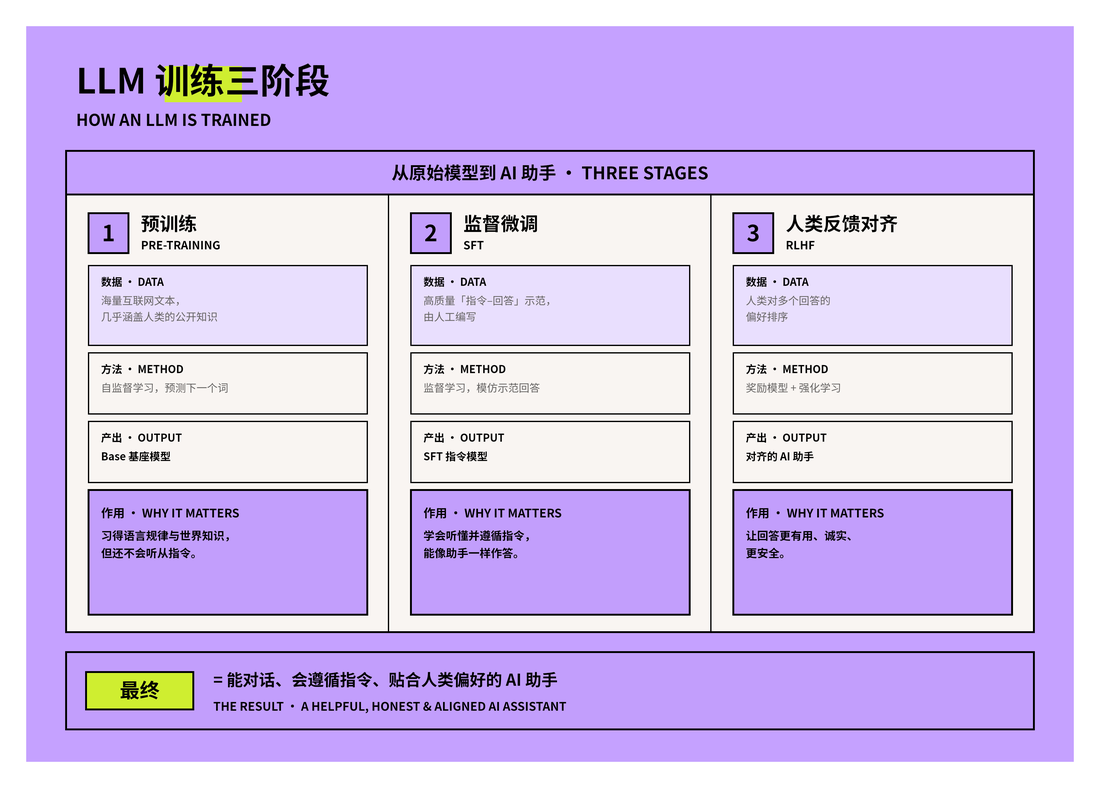
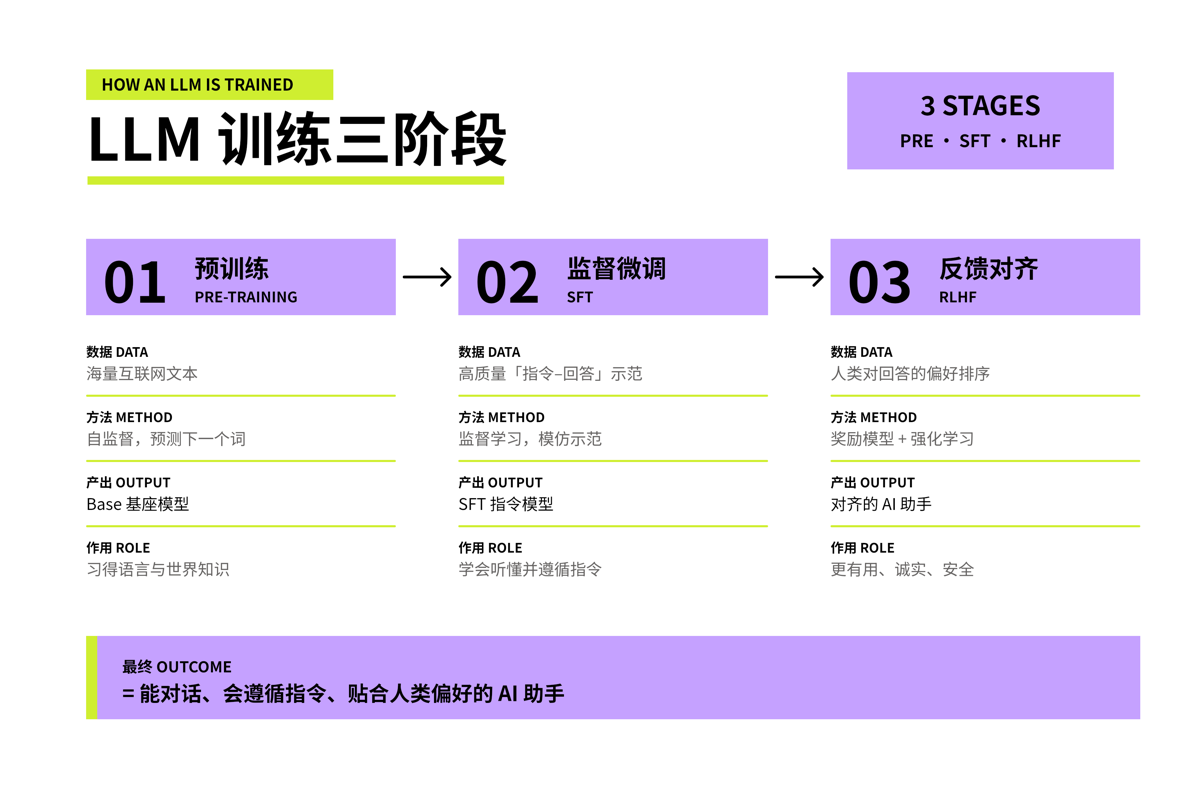
White Violet Marker official; remove Cobalt Glaze; Grove Block to Bold; Salmon Stamp to Restrained
- Violet Marker: adopt the white-background version (violet blocks + lime highlighter).
- Remove Cobalt Glaze.
- Move Grove Block to Bold, Salmon Stamp to Restrained.
- Regenerate catalogue + galleries (now 35 styles: Restrained 9, Balanced 15, Bold 11).

diff --git a/templates/violet-marker/design.md b/templates/violet-marker/design.md
@@ -3,54 +3,51 @@ version: 1.0
 name: Violet Marker
 renderer: feishu-svg-whiteboard
 description: >
-  A flat neobrutalist landing-page system — a bright lavender outer field framing a warm cream card with heavy black borders and hard squared corners. Panels abut flush like a web nav bar, a lime highlighter block sits behind one keyword, and a chunky purple button-tile carries the call to action. Type is heavy and mixed-case, ink-black on cream. NO shadows: depth is flat color blocks, thick black frames, panel role-swaps, and scale. Built for explainers, product/process walkthroughs, comparisons, and confident hero-and-steps system maps.
+  A friendly highlighter palette on a white page: a bright lavender-violet and an acid lime-green as
+  the two accents, with black type. Violet does the colour-blocks (header bands, chips); lime is the
+  single highlighter punch (a marker block behind a keyword, accent ticks, an underline). Black carries
+  the type; a warm grey softens body copy. Clean, modern, and airy: colour-blocks and whitespace do the
+  structure, not heavy frames. Flat color only, no gradients.
 
 # ── COLOR ────────────────────────────────────────────────────
 colors:
-  field:   "#C5A1FF"   # bright lavender-purple — the outer field / top band / banners
-  field-2: "#E9DFFE"   # pale lavender — recessed / quiet panels, secondary fills
-  cream:   "#F9F5F2"   # warm off-white — the main card, all body panels, large text on purple
-  ink:     "#000000"   # pure black — borders, headlines, ALL structural & label text
-  slate:   "#666463"   # warm grey — body / paragraph text on cream
-  lime:    "#CFEE30"   # acid-lime highlighter — the single punch: marker block behind a keyword, accents
-  grape:   "#C29EFC"   # mid purple — the CTA button-tile and key fills
-  # 2–3 accents per scene: cream + ink everywhere, then ONE of {lime, grape} as the punch. Dark text on light fills.
+  white:  "#FFFFFF"   # universal canvas: clean white page
+  violet: "#C5A1FF"   # bright lavender-violet: the main accent — header bands, chips, colour blocks (light enough for black text)
+  lime:   "#CFEE30"   # acid lime-green: the single highlighter PUNCH — a marker block behind a keyword, accent ticks, an underline
+  ink:    "#000000"   # black: all headlines, labels, and structural rules
+  slate:  "#666463"   # warm grey: body / paragraph text on white
+  # White page + two accents. Violet carries the colour-blocks; lime is the one highlighter punch.
+  # Black is the type. Keep it airy; one lime highlight per scene, not many.
 
-# ── TEXT COLOR (critical on a colored canvas) ────────────────
+# ── TEXT COLOR ───────────────────────────────────────────────
 text-rules:
-  on-cream:    "INK for headings/labels; SLATE for body. Always crisp."
-  on-purple:   "INK for any size — always reliable. CREAM only for LARGE bold display (≥ ~28px). Never small cream text on purple."
-  on-lime:     "INK text — always crisp (lime is the keyword highlight; keep the word black)."
-  on-grape:    "INK text — always crisp."
-
-# ── DEPTH ────────────────────────────────────────────────────
-# FLAT system — NO shadows of any kind (not blurred, not the offset-duplicate trick).
-# Depth = the heavy black frame, flat color blocks, panel role-swaps, and scale.
+  rule: "Text is black (or slate for body) on white and on violet. Lime is only a highlighter fill behind black text or a small mark, never text itself."
+  note: "Black text on violet reads fine on the live board. The image export renders text color unreliably, so judge color via --output_as raw or the live board, not the exported PNG."
 
 # ── STROKE & CORNERS ─────────────────────────────────────────
 stroke:
-  structural: "3px solid ink"   # the main card frame, nav bar, cards, button-tiles
-  rule:       "2px solid ink"   # internal dividers / nav underline
-  radius: 0                     # hard squared corners throughout — no rounding
+  structural: "minimal. Prefer violet colour-blocks and thin rules over heavy frames; no big outer frame"
+  rule:       "thin violet or lime rules for row dividers"
+  radius:     "low (rx 0 to 10); clean and modern"
 ---
 
 # Violet Marker — Feishu SVG Whiteboard Design System
 
-A flat neobrutalist landing page you can read at a glance: a bright lavender field, a heavy
-black-framed cream card sitting on it, a lime highlighter slashed behind one word, and a
-purple button-tile to act on. Confident, mixed-case, ink-on-cream — never heavy with chrome,
-never shadowed.
+A clean white page with bright violet colour-blocks and one acid-lime highlighter. Lead with black
+type, let the violet header bands and chips carry the structure, and spend the lime on a single
+highlighter move (a marker block behind a keyword, an underline, a few ticks). Keep the white open and
+airy, not boxed-in.
 
 ## Color
 
-The **lavender field** (`#C5A1FF`) is the outer canvas and the top band — the thing the cream
-card sits on. **Cream** (`#F9F5F2`) is the working surface: the main card, every body panel, and
-the only color allowed for *large* display text on purple. **Ink** (`#000000`) is the structural
-voice — every 3px border, every headline, every label. **Slate** (`#666463`) carries paragraph
-body on cream. The punch is a single accent per scene: **lime** (`#CFEE30`) as a highlighter block
-behind one keyword (the signature move), or **grape** (`#C29EFC`) as the CTA button-tile and key
-fills. Pale **field-2** (`#E9DFFE`) only recesses a quiet panel. Keep it to cream + ink plus ONE
-loud accent — don't run lime and grape loud in the same scene.
+- **White** (`#FFFFFF`): The universal canvas. Clean and open. The default background.
+- **Violet** (`#C5A1FF`): Bright lavender-violet. The main accent: stage header bands, chips, and colour blocks. Light enough that black text reads on it.
+- **Lime** (`#CFEE30`): Acid lime-green. The single highlighter punch: a marker block behind a keyword, an accent underline, small ticks. Very light, so use it as a fill behind black text, never as text.
+- **Ink** (`#000000`): Black. All headlines, labels, and the few structural rules.
+- **Slate** (`#666463`): Warm grey. Body and paragraph text on white, where pure black would be too heavy.
+
+Two accents on a clean white page: violet for the blocks, lime for one highlighter punch. Text is black
+or slate; the violet and lime are fills and marks, not text.
 
 ## Rules
 

diff --git a/README.md b/README.md
@@ -17,7 +17,7 @@ auto layout chart tool. Your agent composes the layout, and these templates give
 ## Gallery
 
 Every style renders the **same content**, the three stages of LLM training, so you can compare
-palettes directly. The 36 styles are grouped from **restrained** to **bold**. Click a name to
+palettes directly. The 35 styles are grouped from **restrained** to **bold**. Click a name to
 open its template.
 
 ### Restrained
@@ -25,22 +25,22 @@ open its template.
 <table>
 <tr>
 <td width="50%"><a href="templates/avocado-press/"><img src="assets/styles/avocado-press.png" alt="Avocado Press"/></a><br/><sub><a href="templates/avocado-press/"><b>Avocado Press</b></a></sub></td>
-<td width="50%"><a href="templates/cobalt-glaze/"><img src="assets/styles/cobalt-glaze.png" alt="Cobalt Glaze"/></a><br/><sub><a href="templates/cobalt-glaze/"><b>Cobalt Glaze</b></a></sub></td>
-</tr>
-<tr>
 <td width="50%"><a href="templates/grove/"><img src="assets/styles/grove.png" alt="Grove"/></a><br/><sub><a href="templates/grove/"><b>Grove</b></a></sub></td>
+</tr>
+<tr>
 <td width="50%"><a href="templates/jade-lens/"><img src="assets/styles/jade-lens.png" alt="Jade Lens"/></a><br/><sub><a href="templates/jade-lens/"><b>Jade Lens</b></a></sub></td>
-</tr>
-<tr>
 <td width="50%"><a href="templates/long-table/"><img src="assets/styles/long-table.png" alt="Long Table"/></a><br/><sub><a href="templates/long-table/"><b>Long Table</b></a></sub></td>
+</tr>
+<tr>
 <td width="50%"><a href="templates/macchiato/"><img src="assets/styles/macchiato.png" alt="Macchiato"/></a><br/><sub><a href="templates/macchiato/"><b>Macchiato</b></a></sub></td>
-</tr>
-<tr>
 <td width="50%"><a href="templates/monochrome/"><img src="assets/styles/monochrome.png" alt="Monochrome"/></a><br/><sub><a href="templates/monochrome/"><b>Monochrome</b></a></sub></td>
-<td width="50%"><a href="templates/papier-bleu/"><img src="assets/styles/papier-bleu.png" alt="Papier Bleu"/></a><br/><sub><a href="templates/papier-bleu/"><b>Papier Bleu</b></a></sub></td>
 </tr>
 <tr>
+<td width="50%"><a href="templates/papier-bleu/"><img src="assets/styles/papier-bleu.png" alt="Papier Bleu"/></a><br/><sub><a href="templates/papier-bleu/"><b>Papier Bleu</b></a></sub></td>
 <td width="50%"><a href="templates/reading-room/"><img src="assets/styles/reading-room.png" alt="Reading Room"/></a><br/><sub><a href="templates/reading-room/"><b>Reading Room</b></a></sub></td>
+</tr>
+<tr>
+<td width="50%"><a href="templates/salmon-stamp/"><img src="assets/styles/salmon-stamp.png" alt="Salmon Stamp"/></a><br/><sub><a href="templates/salmon-stamp/"><b>Salmon Stamp</b></a></sub></td>
 </tr>
 </table>
 
@@ -64,19 +64,15 @@ open its template.
 <td width="50%"><a href="templates/editorial-forest/"><img src="assets/styles/editorial-forest.png" alt="Editorial Forest"/></a><br/><sub><a href="templates/editorial-forest/"><b>Editorial Forest</b></a></sub></td>
 </tr>
 <tr>
-<td width="50%"><a href="templates/grove-block/"><img src="assets/styles/grove-block.png" alt="Grove Block"/></a><br/><sub><a href="templates/grove-block/"><b>Grove Block</b></a></sub></td>
 <td width="50%"><a href="templates/lime-slab/"><img src="assets/styles/lime-slab.png" alt="Lime Slab"/></a><br/><sub><a href="templates/lime-slab/"><b>Lime Slab</b></a></sub></td>
-</tr>
-<tr>
 <td width="50%"><a href="templates/linen-cut/"><img src="assets/styles/linen-cut.png" alt="Linen Cut"/></a><br/><sub><a href="templates/linen-cut/"><b>Linen Cut</b></a></sub></td>
+</tr>
+<tr>
 <td width="50%"><a href="templates/pin-and-paper/"><img src="assets/styles/pin-and-paper.png" alt="Pin & Paper"/></a><br/><sub><a href="templates/pin-and-paper/"><b>Pin & Paper</b></a></sub></td>
-</tr>
-<tr>
 <td width="50%"><a href="templates/raw-grid/"><img src="assets/styles/raw-grid.png" alt="Raw Grid"/></a><br/><sub><a href="templates/raw-grid/"><b>Raw Grid</b></a></sub></td>
-<td width="50%"><a href="templates/riptide-cobalt/"><img src="assets/styles/riptide-cobalt.png" alt="Riptide Cobalt"/></a><br/><sub><a href="templates/riptide-cobalt/"><b>Riptide Cobalt</b></a></sub></td>
 </tr>
 <tr>
-<td width="50%"><a href="templates/salmon-stamp/"><img src="assets/styles/salmon-stamp.png" alt="Salmon Stamp"/></a><br/><sub><a href="templates/salmon-stamp/"><b>Salmon Stamp</b></a></sub></td>
+<td width="50%"><a href="templates/riptide-cobalt/"><img src="assets/styles/riptide-cobalt.png" alt="Riptide Cobalt"/></a><br/><sub><a href="templates/riptide-cobalt/"><b>Riptide Cobalt</b></a></sub></td>
 <td width="50%"><a href="templates/soft-editorial/"><img src="assets/styles/soft-editorial.png" alt="Soft Editorial"/></a><br/><sub><a href="templates/soft-editorial/"><b>Soft Editorial</b></a></sub></td>
 </tr>
 <tr>
@@ -97,14 +93,17 @@ open its template.
 </tr>
 <tr>
 <td width="50%"><a href="templates/crayon-stack/"><img src="assets/styles/crayon-stack.png" alt="Crayon Stack"/></a><br/><sub><a href="templates/crayon-stack/"><b>Crayon Stack</b></a></sub></td>
+<td width="50%"><a href="templates/grove-block/"><img src="assets/styles/grove-block.png" alt="Grove Block"/></a><br/><sub><a href="templates/grove-block/"><b>Grove Block</b></a></sub></td>
+</tr>
+<tr>
 <td width="50%"><a href="templates/mint-brut/"><img src="assets/styles/mint-brut.png" alt="Mint Brut"/></a><br/><sub><a href="templates/mint-brut/"><b>Mint Brut</b></a></sub></td>
-</tr>
-<tr>
 <td width="50%"><a href="templates/neo-grid-bold/"><img src="assets/styles/neo-grid-bold.png" alt="Neo-Grid Bold"/></a><br/><sub><a href="templates/neo-grid-bold/"><b>Neo-Grid Bold</b></a></sub></td>
-<td width="50%"><a href="templates/riso-brut/"><img src="assets/styles/riso-brut.png" alt="Riso Brut"/></a><br/><sub><a href="templates/riso-brut/"><b>Riso Brut</b></a></sub></td>
 </tr>
 <tr>
+<td width="50%"><a href="templates/riso-brut/"><img src="assets/styles/riso-brut.png" alt="Riso Brut"/></a><br/><sub><a href="templates/riso-brut/"><b>Riso Brut</b></a></sub></td>
 <td width="50%"><a href="templates/specimen-bold/"><img src="assets/styles/specimen-bold.png" alt="Specimen Bold"/></a><br/><sub><a href="templates/specimen-bold/"><b>Specimen Bold</b></a></sub></td>
+</tr>
+<tr>
 <td width="50%"><a href="templates/stencil-tablet/"><img src="assets/styles/stencil-tablet.png" alt="Stencil & Tablet"/></a><br/><sub><a href="templates/stencil-tablet/"><b>Stencil & Tablet</b></a></sub></td>
 </tr>
 </table>

diff --git a/README.zh.md b/README.zh.md
@@ -10,29 +10,29 @@
 
 ## 风格画廊（Gallery）
 
-每个风格画的都是**同一份内容**（LLM 训练的三个阶段），方便直接对比配色。36 个风格按**从克制（restrained）到大胆（bold）**分为三档，点击风格名可打开对应模板。
+每个风格画的都是**同一份内容**（LLM 训练的三个阶段），方便直接对比配色。35 个风格按**从克制（restrained）到大胆（bold）**分为三档，点击风格名可打开对应模板。
 
 ### 克制 · Restrained
 
 <table>
 <tr>
 <td width="50%"><a href="templates/avocado-press/"><img src="assets/styles/avocado-press.png" alt="Avocado Press"/></a><br/><sub><a href="templates/avocado-press/"><b>Avocado Press</b></a></sub></td>
-<td width="50%"><a href="templates/cobalt-glaze/"><img src="assets/styles/cobalt-glaze.png" alt="Cobalt Glaze"/></a><br/><sub><a href="templates/cobalt-glaze/"><b>Cobalt Glaze</b></a></sub></td>
-</tr>
-<tr>
 <td width="50%"><a href="templates/grove/"><img src="assets/styles/grove.png" alt="Grove"/></a><br/><sub><a href="templates/grove/"><b>Grove</b></a></sub></td>
+</tr>
+<tr>
 <td width="50%"><a href="templates/jade-lens/"><img src="assets/styles/jade-lens.png" alt="Jade Lens"/></a><br/><sub><a href="templates/jade-lens/"><b>Jade Lens</b></a></sub></td>
-</tr>
-<tr>
 <td width="50%"><a href="templates/long-table/"><img src="assets/styles/long-table.png" alt="Long Table"/></a><br/><sub><a href="templates/long-table/"><b>Long Table</b></a></sub></td>
+</tr>
+<tr>
 <td width="50%"><a href="templates/macchiato/"><img src="assets/styles/macchiato.png" alt="Macchiato"/></a><br/><sub><a href="templates/macchiato/"><b>Macchiato</b></a></sub></td>
-</tr>
-<tr>
 <td width="50%"><a href="templates/monochrome/"><img src="assets/styles/monochrome.png" alt="Monochrome"/></a><br/><sub><a href="templates/monochrome/"><b>Monochrome</b></a></sub></td>
-<td width="50%"><a href="templates/papier-bleu/"><img src="assets/styles/papier-bleu.png" alt="Papier Bleu"/></a><br/><sub><a href="templates/papier-bleu/"><b>Papier Bleu</b></a></sub></td>
 </tr>
 <tr>
+<td width="50%"><a href="templates/papier-bleu/"><img src="assets/styles/papier-bleu.png" alt="Papier Bleu"/></a><br/><sub><a href="templates/papier-bleu/"><b>Papier Bleu</b></a></sub></td>
 <td width="50%"><a href="templates/reading-room/"><img src="assets/styles/reading-room.png" alt="Reading Room"/></a><br/><sub><a href="templates/reading-room/"><b>Reading Room</b></a></sub></td>
+</tr>
+<tr>
+<td width="50%"><a href="templates/salmon-stamp/"><img src="assets/styles/salmon-stamp.png" alt="Salmon Stamp"/></a><br/><sub><a href="templates/salmon-stamp/"><b>Salmon Stamp</b></a></sub></td>
 </tr>
 </table>
 
@@ -56,19 +56,15 @@
 <td width="50%"><a href="templates/editorial-forest/"><img src="assets/styles/editorial-forest.png" alt="Editorial Forest"/></a><br/><sub><a href="templates/editorial-forest/"><b>Editorial Forest</b></a></sub></td>
 </tr>
 <tr>
-<td width="50%"><a href="templates/grove-block/"><img src="assets/styles/grove-block.png" alt="Grove Block"/></a><br/><sub><a href="templates/grove-block/"><b>Grove Block</b></a></sub></td>
 <td width="50%"><a href="templates/lime-slab/"><img src="assets/styles/lime-slab.png" alt="Lime Slab"/></a><br/><sub><a href="templates/lime-slab/"><b>Lime Slab</b></a></sub></td>
-</tr>
-<tr>
 <td width="50%"><a href="templates/linen-cut/"><img src="assets/styles/linen-cut.png" alt="Linen Cut"/></a><br/><sub><a href="templates/linen-cut/"><b>Linen Cut</b></a></sub></td>
+</tr>
+<tr>
 <td width="50%"><a href="templates/pin-and-paper/"><img src="assets/styles/pin-and-paper.png" alt="Pin & Paper"/></a><br/><sub><a href="templates/pin-and-paper/"><b>Pin & Paper</b></a></sub></td>
-</tr>
-<tr>
 <td width="50%"><a href="templates/raw-grid/"><img src="assets/styles/raw-grid.png" alt="Raw Grid"/></a><br/><sub><a href="templates/raw-grid/"><b>Raw Grid</b></a></sub></td>
-<td width="50%"><a href="templates/riptide-cobalt/"><img src="assets/styles/riptide-cobalt.png" alt="Riptide Cobalt"/></a><br/><sub><a href="templates/riptide-cobalt/"><b>Riptide Cobalt</b></a></sub></td>
 </tr>
 <tr>
-<td width="50%"><a href="templates/salmon-stamp/"><img src="assets/styles/salmon-stamp.png" alt="Salmon Stamp"/></a><br/><sub><a href="templates/salmon-stamp/"><b>Salmon Stamp</b></a></sub></td>
+<td width="50%"><a href="templates/riptide-cobalt/"><img src="assets/styles/riptide-cobalt.png" alt="Riptide Cobalt"/></a><br/><sub><a href="templates/riptide-cobalt/"><b>Riptide Cobalt</b></a></sub></td>
 <td width="50%"><a href="templates/soft-editorial/"><img src="assets/styles/soft-editorial.png" alt="Soft Editorial"/></a><br/><sub><a href="templates/soft-editorial/"><b>Soft Editorial</b></a></sub></td>
 </tr>
 <tr>
@@ -89,14 +85,17 @@
 </tr>
 <tr>
 <td width="50%"><a href="templates/crayon-stack/"><img src="assets/styles/crayon-stack.png" alt="Crayon Stack"/></a><br/><sub><a href="templates/crayon-stack/"><b>Crayon Stack</b></a></sub></td>
+<td width="50%"><a href="templates/grove-block/"><img src="assets/styles/grove-block.png" alt="Grove Block"/></a><br/><sub><a href="templates/grove-block/"><b>Grove Block</b></a></sub></td>
+</tr>
+<tr>
 <td width="50%"><a href="templates/mint-brut/"><img src="assets/styles/mint-brut.png" alt="Mint Brut"/></a><br/><sub><a href="templates/mint-brut/"><b>Mint Brut</b></a></sub></td>
-</tr>
-<tr>
 <td width="50%"><a href="templates/neo-grid-bold/"><img src="assets/styles/neo-grid-bold.png" alt="Neo-Grid Bold"/></a><br/><sub><a href="templates/neo-grid-bold/"><b>Neo-Grid Bold</b></a></sub></td>
-<td width="50%"><a href="templates/riso-brut/"><img src="assets/styles/riso-brut.png" alt="Riso Brut"/></a><br/><sub><a href="templates/riso-brut/"><b>Riso Brut</b></a></sub></td>
 </tr>
 <tr>
+<td width="50%"><a href="templates/riso-brut/"><img src="assets/styles/riso-brut.png" alt="Riso Brut"/></a><br/><sub><a href="templates/riso-brut/"><b>Riso Brut</b></a></sub></td>
 <td width="50%"><a href="templates/specimen-bold/"><img src="assets/styles/specimen-bold.png" alt="Specimen Bold"/></a><br/><sub><a href="templates/specimen-bold/"><b>Specimen Bold</b></a></sub></td>
+</tr>
+<tr>
 <td width="50%"><a href="templates/stencil-tablet/"><img src="assets/styles/stencil-tablet.png" alt="Stencil & Tablet"/></a><br/><sub><a href="templates/stencil-tablet/"><b>Stencil & Tablet</b></a></sub></td>
 </tr>
 </table>

diff --git a/CATALOG.md b/CATALOG.md
@@ -5,7 +5,7 @@ the **formality**, and the **vibe** they want. Any style can carry almost any co
 feel. If the user named a style or a clear preference, honour it. Otherwise infer from the tone they
 want and propose one. After generating, always tell the user they can switch to any other style.
 
-The 36 styles are grouped into three levels, from restrained to bold:
+The 35 styles are grouped into three levels, from restrained to bold:
 
 - **Restrained** — monochrome, two-tone, calm and muted; not colourful. For serious, quiet, editorial boards.
 - **Balanced** — a confident accent or two on a clean ground; the versatile middle. Most general work lives here.
@@ -19,7 +19,6 @@ restrained / refined / institutional.
 | Style | Formality | Vibe |
 |---|---|---|
 | [Avocado Press](templates/avocado-press/) | Medium | clean duotone, white with blue and lime |
-| [Cobalt Glaze](templates/cobalt-glaze/) | High | refined, calm, ceramic blue and white |
 | [Grove](templates/grove/) | High | editorial, grounded, parchment and forest green |
 | [Jade Lens](templates/jade-lens/) | High | calm, harmonious, minimal green |
 | [Long Table](templates/long-table/) | Medium | warm, rustic, single rust ink, menu like |
@@ -27,6 +26,7 @@ restrained / refined / institutional.
 | [Monochrome](templates/monochrome/) | High | quiet, minimal, text first, no accent |
 | [Papier Bleu](templates/papier-bleu/) | Medium | Matisse calm, artful, airy |
 | [Reading Room](templates/reading-room/) | High | quiet, literary, restrained, institutional |
+| [Salmon Stamp](templates/salmon-stamp/) | Low | clean stamp poster, white with salmon and green |
 
 ## Balanced
 
@@ -40,15 +40,13 @@ restrained / refined / institutional.
 | [Coral](templates/coral/) | Medium | warm, friendly, clean, signature coral |
 | [Cut Bloom](templates/cut-bloom/) | Medium | calm, warm, soft colour blocks |
 | [Editorial Forest](templates/editorial-forest/) | High | literary, bookish, forest green and rose |
-| [Grove Block](templates/grove-block/) | Medium | brand forward, flat, confident green |
 | [Lime Slab](templates/lime-slab/) | Medium | electric, bold, modern SaaS |
 | [Linen Cut](templates/linen-cut/) | High | mid century modernist, tasteful, calm |
 | [Pin & Paper](templates/pin-and-paper/) | Medium | clean, graphic, white with yellow and blue pop |
 | [Raw Grid](templates/raw-grid/) | Medium | system native, sharp, digital brutalism |
 | [Riptide Cobalt](templates/riptide-cobalt/) | Medium | bold poster, low density, high impact |
-| [Salmon Stamp](templates/salmon-stamp/) | Low | clean stamp poster, white with salmon and green |
 | [Soft Editorial](templates/soft-editorial/) | Medium | warm magazine, soft pastels, gentle |
-| [Violet Marker](templates/violet-marker/) | Low | lavender, highlighter, friendly modern |
+| [Violet Marker](templates/violet-marker/) | Low | highlighter, white with violet and lime, modern |
 
 ## Bold
 
@@ -59,6 +57,7 @@ restrained / refined / institutional.
 | [Confetti Wedge](templates/confetti-wedge/) | Low | playful, breezy, celebratory pastel |
 | [Court Press](templates/court-press/) | Low | sporty, athletic, energetic clash |
 | [Crayon Stack](templates/crayon-stack/) | Low | primary crayon brights, loud, fun |
+| [Grove Block](templates/grove-block/) | Medium | brand forward, flat, confident green |
 | [Mint Brut](templates/mint-brut/) | Low | candy, friendly, app like |
 | [Neo-Grid Bold](templates/neo-grid-bold/) | Medium | editorial grid, bold, structured |
 | [Riso Brut](templates/riso-brut/) | Medium | neo brutalist editorial, confident, designed |